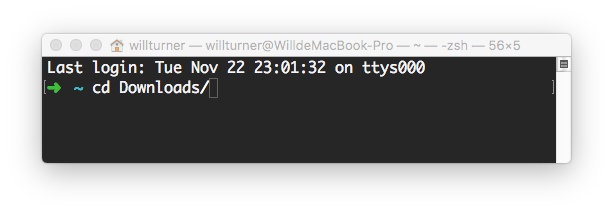
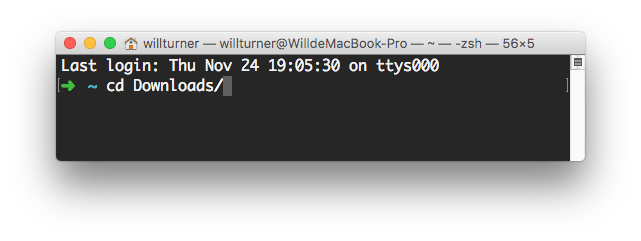
更改文章《Mac中安装MySQL》的日期，替换文章的图片
1.将文章的日期更改为上传日期。
2.文章中的一些细节优化。
3.替换文章中的一张图片。

Changed region(s): [[0.062, 0.1408, 0.9299, 0.7887]]

diff --git a/_posts/2016-11-24-install-mysql.md b/_posts/2016-11-24-install-mysql.md
@@ -2,7 +2,7 @@
 layout: post
 title: "Mac中安装MySQL"
 description: "Mac中安装MySQL"
-date: 2016-11-21
+date: 2016-11-24
 tags: [mysql ,Mac]
 comments: true
 share: true
@@ -22,7 +22,7 @@ MySQL安装方式：.dmg文件
   <img src="{{ site.baseurl }}/images/install_mysql_2.png" class="img-no-border-radius"/>
 </div>
 ### 3.验证文件的完整性(可跳过本步骤)
-打开Terminal终端，输入`cd Downloads`进入下载文件夹。  
+打开Terminal终端，输入`cd Downloads/`进入下载文件夹。  
 <div align="center">
   <img src="{{ site.baseurl }}/images/install_mysql_3.png" class="img-no-border-radius"/>
 </div>
@@ -31,4 +31,4 @@ MySQL安装方式：.dmg文件
   <img src="{{ site.baseurl }}/images/install_mysql_4.png" class="img-no-border-radius"/>
 </div>
 ### 4.进行安装
-在Finder中打开文件，安装过程和其它程序安装过程一致，这里不再赘述。
+在Finder中双击文件进行安装，安装过程和其它程序安装过程一致，这里不再赘述。
